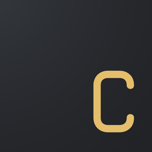
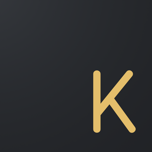
Misc Changes

Changed region(s): [[0.6053, 0.4474, 0.8947, 0.8947]]

diff --git a/src/pages/index.jsx b/src/pages/index.jsx
@@ -21,12 +21,12 @@ function Home({ pageContext }) {
       <SEO title={basics.name} description={basics.label} />
       <div className={styles.hero}>
         <div className={styles.details}>
-          <div className={styles.hugetitle}>checklist</div>
+          <div className={styles.hugetitle}>kneeboard</div>
           <div className={styles.desc}>{basics.summary}</div>
           <div className={styles.badge}>
             <a
               href={basics.storeUrl}
-              title="Get Checklist App on the App Store"
+              title="Get Kneeboard App on the App Store"
             >
               <DownloadBadge />
             </a>
@@ -37,7 +37,7 @@ function Home({ pageContext }) {
           src={image}
           className={styles.productimage}
           alt="iPad Pro 5th generation"
-          title="Checklist for General Aviation Pilots"
+          title="Kneeboard for General Aviation Pilots"
         />
       </div>
     </>

diff --git a/src/components/organisms/Navbar.module.css b/src/components/organisms/Navbar.module.css
@@ -22,7 +22,7 @@
 }
 .logo:hover {
 transform: scale(1.03);
-  box-shadow: 0px 5px 14px rgba(250, 121, 0, 0.6);
+  box-shadow: 0px 5px 14px rgba(0, 250, 167, 0.6);
 }
 @media only screen and (max-width: 600px) {
 
